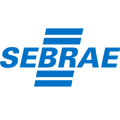
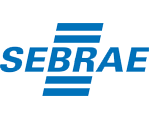
Corrigindo imagens, alinhamentos e adicionando texto para call for papers.

Changed region(s): [[0.0, 0.175, 1.0, 0.8], [0.8, 0.425, 0.825, 0.45]]

diff --git a/public/stylesheets/application.min.css b/public/stylesheets/application.min.css
@@ -15,3 +15,32 @@
  *
  * Designed and built with all the love in the world @twitter by @mdo and @fat.
  */.clearfix{*zoom:1}.clearfix:before,.clearfix:after{display:table;line-height:0;content:""}.clearfix:after{clear:both}.hide-text{font:0/0 a;color:transparent;text-shadow:none;background-color:transparent;border:0}.input-block-level{display:block;width:100%;min-height:30px;-webkit-box-sizing:border-box;-moz-box-sizing:border-box;box-sizing:border-box}@-ms-viewport{width:device-width}.hidden{display:none;visibility:hidden}.visible-phone{display:none!important}.visible-tablet{display:none!important}.hidden-desktop{display:none!important}.visible-desktop{display:inherit!important}@media (min-width:768px) and (max-width:979px){.hidden-desktop{display:inherit!important}.visible-desktop{display:none!important}.visible-tablet{display:inherit!important}.hidden-tablet{display:none!important}}@media (max-width:767px){.hidden-desktop{display:inherit!important}.visible-desktop{display:none!important}.visible-phone{display:inherit!important}.hidden-phone{display:none!important}}.visible-print{display:none!important}@media print{.visible-print{display:inherit!important}.hidden-print{display:none!important}}@media (min-width:1200px){.row{margin-left:-30px;*zoom:1}.row:before,.row:after{display:table;line-height:0;content:""}.row:after{clear:both}[class*=span]{float:left;min-height:1px;margin-left:30px}.container,.navbar-static-top .container,.navbar-fixed-top .container,.navbar-fixed-bottom .container{width:1170px}.span12{width:1170px}.span11{width:1070px}.span10{width:970px}.span9{width:870px}.span8{width:770px}.span7{width:670px}.span6{width:570px}.span5{width:470px}.span4{width:370px}.span3{width:270px}.span2{width:170px}.span1{width:70px}.offset12{margin-left:1230px}.offset11{margin-left:1130px}.offset10{margin-left:1030px}.offset9{margin-left:930px}.offset8{margin-left:830px}.offset7{margin-left:730px}.offset6{margin-left:630px}.offset5{margin-left:530px}.offset4{margin-left:430px}.offset3{margin-left:330px}.offset2{margin-left:230px}.offset1{margin-left:130px}.row-fluid{width:100%;*zoom:1}.row-fluid:before,.row-fluid:after{display:table;line-height:0;content:""}.row-fluid:after{clear:both}.row-fluid [class*=span]{display:block;float:left;width:100%;min-height:30px;margin-left:2.564102564102564%;*margin-left:2.5109110747408616%;-webkit-box-sizing:border-box;-moz-box-sizing:border-box;box-sizing:border-box}.row-fluid [class*=span]:first-child{margin-left:0}.row-fluid .controls-row [class*=span]+[class*=span]{margin-left:2.564102564102564%}.row-fluid .span12{width:100%;*width:99.94680851063829%}.row-fluid .span11{width:91.45299145299145%;*width:91.39979996362975%}.row-fluid .span10{width:82.90598290598291%;*width:82.8527914166212%}.row-fluid .span9{width:74.35897435897436%;*width:74.30578286961266%}.row-fluid .span8{width:65.81196581196582%;*width:65.75877432260411%}.row-fluid .span7{width:57.26495726495726%;*width:57.21176577559556%}.row-fluid .span6{width:48.717948717948715%;*width:48.664757228587014%}.row-fluid .span5{width:40.17094017094017%;*width:40.11774868157847%}.row-fluid .span4{width:31.623931623931625%;*width:31.570740134569924%}.row-fluid .span3{width:23.076923076923077%;*width:23.023731587561375%}.row-fluid .span2{width:14.52991452991453%;*width:14.476723040552828%}.row-fluid .span1{width:5.982905982905983%;*width:5.929714493544281%}.row-fluid .offset12{margin-left:105.12820512820512%;*margin-left:105.02182214948171%}.row-fluid .offset12:first-child{margin-left:102.56410256410257%;*margin-left:102.45771958537915%}.row-fluid .offset11{margin-left:96.58119658119658%;*margin-left:96.47481360247316%}.row-fluid .offset11:first-child{margin-left:94.01709401709402%;*margin-left:93.91071103837061%}.row-fluid .offset10{margin-left:88.03418803418803%;*margin-left:87.92780505546462%}.row-fluid .offset10:first-child{margin-left:85.47008547008548%;*margin-left:85.36370249136206%}.row-fluid .offset9{margin-left:79.48717948717949%;*margin-left:79.38079650845607%}.row-fluid .offset9:first-child{margin-left:76.92307692307693%;*margin-left:76.81669394435352%}.row-fluid .offset8{margin-left:70.94017094017094%;*margin-left:70.83378796144753%}.row-fluid .offset8:first-child{margin-left:68.37606837606839%;*margin-left:68.26968539734497%}.row-fluid .offset7{margin-left:62.393162393162385%;*margin-left:62.28677941443899%}.row-fluid .offset7:first-child{margin-left:59.82905982905982%;*margin-left:59.72267685033642%}.row-fluid .offset6{margin-left:53.84615384615384%;*margin-left:53.739770867430444%}.row-fluid .offset6:first-child{margin-left:51.28205128205128%;*margin-left:51.175668303327875%}.row-fluid .offset5{margin-left:45.299145299145295%;*margin-left:45.1927623204219%}.row-fluid .offset5:first-child{margin-left:42.73504273504273%;*margin-left:42.62865975631933%}.row-fluid .offset4{margin-left:36.75213675213675%;*margin-left:36.645753773413354%}.row-fluid .offset4:first-child{margin-left:34.18803418803419%;*margin-left:34.081651209310785%}.row-fluid .offset3{margin-left:28.205128205128204%;*margin-left:28.0987452264048%}.row-fluid .offset3:first-child{margin-left:25.641025641025642%;*margin-left:25.53464266230224%}.row-fluid .offset2{margin-left:19.65811965811966%;*margin-left:19.551736679396257%}.row-fluid .offset2:first-child{margin-left:17.094017094017094%;*margin-left:16.98763411529369%}.row-fluid .offset1{margin-left:11.11111111111111%;*margin-left:11.004728132387708%}.row-fluid .offset1:first-child{margin-left:8.547008547008547%;*margin-left:8.440625568285142%}input,textarea,.uneditable-input{margin-left:0}.controls-row [class*=span]+[class*=span]{margin-left:30px}input.span12,textarea.span12,.uneditable-input.span12{width:1156px}input.span11,textarea.span11,.uneditable-input.span11{width:1056px}input.span10,textarea.span10,.uneditable-input.span10{width:956px}input.span9,textarea.span9,.uneditable-input.span9{width:856px}input.span8,textarea.span8,.uneditable-input.span8{width:756px}input.span7,textarea.span7,.uneditable-input.span7{width:656px}input.span6,textarea.span6,.uneditable-input.span6{width:556px}input.span5,textarea.span5,.uneditable-input.span5{width:456px}input.span4,textarea.span4,.uneditable-input.span4{width:356px}input.span3,textarea.span3,.uneditable-input.span3{width:256px}input.span2,textarea.span2,.uneditable-input.span2{width:156px}input.span1,textarea.span1,.uneditable-input.span1{width:56px}.thumbnails{margin-left:-30px}.thumbnails>li{margin-left:30px}.row-fluid .thumbnails{margin-left:0}}@media (min-width:768px) and (max-width:979px){.row{margin-left:-20px;*zoom:1}.row:before,.row:after{display:table;line-height:0;content:""}.row:after{clear:both}[class*=span]{float:left;min-height:1px;margin-left:20px}.container,.navbar-static-top .container,.navbar-fixed-top .container,.navbar-fixed-bottom .container{width:724px}.span12{width:724px}.span11{width:662px}.span10{width:600px}.span9{width:538px}.span8{width:476px}.span7{width:414px}.span6{width:352px}.span5{width:290px}.span4{width:228px}.span3{width:166px}.span2{width:104px}.span1{width:42px}.offset12{margin-left:764px}.offset11{margin-left:702px}.offset10{margin-left:640px}.offset9{margin-left:578px}.offset8{margin-left:516px}.offset7{margin-left:454px}.offset6{margin-left:392px}.offset5{margin-left:330px}.offset4{margin-left:268px}.offset3{margin-left:206px}.offset2{margin-left:144px}.offset1{margin-left:82px}.row-fluid{width:100%;*zoom:1}.row-fluid:before,.row-fluid:after{display:table;line-height:0;content:""}.row-fluid:after{clear:both}.row-fluid [class*=span]{display:block;float:left;width:100%;min-height:30px;margin-left:2.7624309392265194%;*margin-left:2.709239449864817%;-webkit-box-sizing:border-box;-moz-box-sizing:border-box;box-sizing:border-box}.row-fluid [class*=span]:first-child{margin-left:0}.row-fluid .controls-row [class*=span]+[class*=span]{margin-left:2.7624309392265194%}.row-fluid .span12{width:100%;*width:99.94680851063829%}.row-fluid .span11{width:91.43646408839778%;*width:91.38327259903608%}.row-fluid .span10{width:82.87292817679558%;*width:82.81973668743387%}.row-fluid .span9{width:74.30939226519337%;*width:74.25620077583166%}.row-fluid .span8{width:65.74585635359117%;*width:65.69266486422946%}.row-fluid .span7{width:57.18232044198895%;*width:57.12912895262725%}.row-fluid .span6{width:48.61878453038674%;*width:48.56559304102504%}.row-fluid .span5{width:40.05524861878453%;*width:40.00205712942283%}.row-fluid .span4{width:31.491712707182323%;*width:31.43852121782062%}.row-fluid .span3{width:22.92817679558011%;*width:22.87498530621841%}.row-fluid .span2{width:14.3646408839779%;*width:14.311449394616199%}.row-fluid .span1{width:5.801104972375691%;*width:5.747913483013988%}.row-fluid .offset12{margin-left:105.52486187845304%;*margin-left:105.41847889972962%}.row-fluid .offset12:first-child{margin-left:102.76243093922652%;*margin-left:102.6560479605031%}.row-fluid .offset11{margin-left:96.96132596685082%;*margin-left:96.8549429881274%}.row-fluid .offset11:first-child{margin-left:94.1988950276243%;*margin-left:94.09251204890089%}.row-fluid .offset10{margin-left:88.39779005524862%;*margin-left:88.2914070765252%}.row-fluid .offset10:first-child{margin-left:85.6353591160221%;*margin-left:85.52897613729868%}.row-fluid .offset9{margin-left:79.8342541436464%;*margin-left:79.72787116492299%}.row-fluid .offset9:first-child{margin-left:77.07182320441989%;*margin-left:76.96544022569647%}.row-fluid .offset8{margin-left:71.2707182320442%;*margin-left:71.16433525332079%}.row-fluid .offset8:first-child{margin-left:68.50828729281768%;*margin-left:68.40190431409427%}.row-fluid .offset7{margin-left:62.70718232044199%;*margin-left:62.600799341718584%}.row-fluid .offset7:first-child{margin-left:59.94475138121547%;*margin-left:59.838368402492065%}.row-fluid .offset6{margin-left:54.14364640883978%;*margin-left:54.037263430116376%}.row-fluid .offset6:first-child{margin-left:51.38121546961326%;*margin-left:51.27483249088986%}.row-fluid .offset5{margin-left:45.58011049723757%;*margin-left:45.47372751851417%}.row-fluid .offset5:first-child{margin-left:42.81767955801105%;*margin-left:42.71129657928765%}.row-fluid .offset4{margin-left:37.01657458563536%;*margin-left:36.91019160691196%}.row-fluid .offset4:first-child{margin-left:34.25414364640884%;*margin-left:34.14776066768544%}.row-fluid .offset3{margin-left:28.45303867403315%;*margin-left:28.346655695309746%}.row-fluid .offset3:first-child{margin-left:25.69060773480663%;*margin-left:25.584224756083227%}.row-fluid .offset2{margin-left:19.88950276243094%;*margin-left:19.783119783707537%}.row-fluid .offset2:first-child{margin-left:17.12707182320442%;*margin-left:17.02068884448102%}.row-fluid .offset1{margin-left:11.32596685082873%;*margin-left:11.219583872105325%}.row-fluid .offset1:first-child{margin-left:8.56353591160221%;*margin-left:8.457152932878806%}input,textarea,.uneditable-input{margin-left:0}.controls-row [class*=span]+[class*=span]{margin-left:20px}input.span12,textarea.span12,.uneditable-input.span12{width:710px}input.span11,textarea.span11,.uneditable-input.span11{width:648px}input.span10,textarea.span10,.uneditable-input.span10{width:586px}input.span9,textarea.span9,.uneditable-input.span9{width:524px}input.span8,textarea.span8,.uneditable-input.span8{width:462px}input.span7,textarea.span7,.uneditable-input.span7{width:400px}input.span6,textarea.span6,.uneditable-input.span6{width:338px}input.span5,textarea.span5,.uneditable-input.span5{width:276px}input.span4,textarea.span4,.uneditable-input.span4{width:214px}input.span3,textarea.span3,.uneditable-input.span3{width:152px}input.span2,textarea.span2,.uneditable-input.span2{width:90px}input.span1,textarea.span1,.uneditable-input.span1{width:28px}}@media (max-width:767px){body{padding-right:20px;padding-left:20px}.navbar-fixed-top,.navbar-fixed-bottom,.navbar-static-top{margin-right:-20px;margin-left:-20px}.container-fluid{padding:0}.dl-horizontal dt{float:none;width:auto;clear:none;text-align:left}.dl-horizontal dd{margin-left:0}.container{width:auto}.row-fluid{width:100%}.row,.thumbnails{margin-left:0}.thumbnails>li{float:none;margin-left:0}[class*=span],.uneditable-input[class*=span],.row-fluid [class*=span]{display:block;float:none;width:100%;margin-left:0;-webkit-box-sizing:border-box;-moz-box-sizing:border-box;box-sizing:border-box}.span12,.row-fluid .span12{width:100%;-webkit-box-sizing:border-box;-moz-box-sizing:border-box;box-sizing:border-box}.row-fluid [class*=offset]:first-child{margin-left:0}.input-large,.input-xlarge,.input-xxlarge,input[class*=span],select[class*=span],textarea[class*=span],.uneditable-input{display:block;width:100%;min-height:30px;-webkit-box-sizing:border-box;-moz-box-sizing:border-box;box-sizing:border-box}.input-prepend input,.input-append input,.input-prepend input[class*=span],.input-append input[class*=span]{display:inline-block;width:auto}.controls-row [class*=span]+[class*=span]{margin-left:0}.modal{position:fixed;top:20px;right:20px;left:20px;width:auto;margin:0}.modal.fade{top:-100px}.modal.fade.in{top:20px}}@media (max-width:480px){.nav-collapse{-webkit-transform:translate3d(0,0,0)}.page-header h1 small{display:block;line-height:20px}input[type=checkbox],input[type=radio]{border:1px solid #ccc}.form-horizontal .control-label{float:none;width:auto;padding-top:0;text-align:left}.form-horizontal .controls{margin-left:0}.form-horizontal .control-list{padding-top:0}.form-horizontal .form-actions{padding-right:10px;padding-left:10px}.media .pull-left,.media .pull-right{display:block;float:none;margin-bottom:10px}.media-object{margin-right:0;margin-left:0}.modal{top:10px;right:10px;left:10px}.modal-header .close{padding:10px;margin:-10px}.carousel-caption{position:static}}@media (max-width:979px){body{padding-top:0}.navbar-fixed-top,.navbar-fixed-bottom{position:static}.navbar-fixed-top{margin-bottom:20px}.navbar-fixed-bottom{margin-top:20px}.navbar-fixed-top .navbar-inner,.navbar-fixed-bottom .navbar-inner{padding:5px}.navbar .container{width:auto;padding:0}.navbar .brand{padding-right:10px;padding-left:10px;margin:0 0 0 -5px}.nav-collapse{clear:both}.nav-collapse .nav{float:none;margin:0 0 10px}.nav-collapse .nav>li{float:none}.nav-collapse .nav>li>a{margin-bottom:2px}.nav-collapse .nav>.divider-vertical{display:none}.nav-collapse .nav .nav-header{color:#777;text-shadow:none}.nav-collapse .nav>li>a,.nav-collapse .dropdown-menu a{padding:9px 15px;font-weight:700;color:#777;-webkit-border-radius:3px;-moz-border-radius:3px;border-radius:3px}.nav-collapse .btn{padding:4px 10px;font-weight:400;-webkit-border-radius:4px;-moz-border-radius:4px;border-radius:4px}.nav-collapse .dropdown-menu li+li a{margin-bottom:2px}.nav-collapse .nav>li>a:hover,.nav-collapse .nav>li>a:focus,.nav-collapse .dropdown-menu a:hover,.nav-collapse .dropdown-menu a:focus{background-color:#f2f2f2}.navbar-inverse .nav-collapse .nav>li>a,.navbar-inverse .nav-collapse .dropdown-menu a{color:#999}.navbar-inverse .nav-collapse .nav>li>a:hover,.navbar-inverse .nav-collapse .nav>li>a:focus,.navbar-inverse .nav-collapse .dropdown-menu a:hover,.navbar-inverse .nav-collapse .dropdown-menu a:focus{background-color:#111}.nav-collapse.in .btn-group{padding:0;margin-top:5px}.nav-collapse .dropdown-menu{position:static;top:auto;left:auto;display:none;float:none;max-width:none;padding:0;margin:0 15px;background-color:transparent;border:0;-webkit-border-radius:0;-moz-border-radius:0;border-radius:0;-webkit-box-shadow:none;-moz-box-shadow:none;box-shadow:none}.nav-collapse .open>.dropdown-menu{display:block}.nav-collapse .dropdown-menu:before,.nav-collapse .dropdown-menu:after{display:none}.nav-collapse .dropdown-menu .divider{display:none}.nav-collapse .nav>li>.dropdown-menu:before,.nav-collapse .nav>li>.dropdown-menu:after{display:none}.nav-collapse .navbar-form,.nav-collapse .navbar-search{float:none;padding:10px 15px;margin:10px 0;border-top:1px solid #f2f2f2;border-bottom:1px solid #f2f2f2;-webkit-box-shadow:inset 0 1px 0 rgba(255,255,255,.1),0 1px 0 rgba(255,255,255,.1);-moz-box-shadow:inset 0 1px 0 rgba(255,255,255,.1),0 1px 0 rgba(255,255,255,.1);box-shadow:inset 0 1px 0 rgba(255,255,255,.1),0 1px 0 rgba(255,255,255,.1)}.navbar-inverse .nav-collapse .navbar-form,.navbar-inverse .nav-collapse .navbar-search{border-top-color:#111;border-bottom-color:#111}.navbar .nav-collapse .nav.pull-right{float:none;margin-left:0}.nav-collapse,.nav-collapse.collapse{height:0;overflow:hidden}.navbar .btn-navbar{display:block}.navbar-static .navbar-inner{padding-right:10px;padding-left:10px}}@media (min-width:980px){.nav-collapse.collapse{height:auto!important;overflow:visible!important}}@font-face{font-family:FuturaBold;font-style:normal;font-weight:400;src:url(../fonts/futura_bold_bt-webfont.eot);src:url(../fonts/futura_bold_bt-webfont.eot?#iefix) format("embedded-opentype"),url(../fonts/futura_bold_bt-webfont.woff) format("woff"),url(../fonts/futura_bold_bt-webfont.ttf) format("truetype"),url(../fonts/futura_bold_bt-webfont.svg#avalonbold) format("svg")}@font-face{font-family:icomoon;src:url(../fonts/icomoon.eot);src:url(../fonts/icomoon.eot?#iefix) format('embedded-opentype'),url(../fonts/icomoon.woff) format('woff'),url(../fonts/icomoon.ttf) format('truetype'),url(../fonts/icomoon.svg#icomoon) format('svg');font-weight:400;font-style:normal}@font-face{font-family:social-rupy;src:url(../fonts/social-rupy.eot);src:url(../fonts/social-rupy.eot?#iefix) format('embedded-opentype'),url(../fonts/social-rupy.woff) format('woff'),url(../fonts/social-rupy.ttf) format('truetype'),url(../fonts/social-rupy.svg#social-rupy) format('svg');font-weight:400;font-style:normal}@font-face{font-family:talk;src:url(../fonts/talk.eot);src:url(../fonts/talk.eot?#iefix) format('embedded-opentype'),url(../fonts/talk.ttf) format('truetype'),url(../fonts/talk.woff) format('woff'),url(../fonts/talk.svg#talk) format('svg');font-weight:400;font-style:normal}body{color:#FFF;font-family:"Helvetica Neue",Helvetica,Arial,sans-serif;font-size:1em;line-height:1.5em}a{color:#35AEE7;-webkit-transition:all 1s ease;-moz-transition:all 1s ease;-ms-transition:all 1s ease;-o-transition:all 1s ease;transition:all 1s ease}dt{margin-bottom:4px}dd{margin-bottom:12px}table{border-collapse:collapse;border-spacing:0;width:100%}.link-fanpage{color:#F1F45F}.link-fanpage:hover{color:#CCCC28;text-decoration:none}.btn-last-change{display:block;font-size:1.4em;padding:1em;background:red;color:#fff}.btn-last-change:hover{-webkit-transition:all 1s ease;-moz-transition:all 1s ease;-ms-transition:all 1s ease;-o-transition:all 1s ease;transition:all 1s ease}.is-shadow{text-shadow:0 1px 1px #222}#first-content{padding-bottom:60px;background:#35AEE7;background:-moz-linear-gradient(top,#35AEE7 0,#6A4195 100%);background:-webkit-gradient(linear,left top,left bottom,color-stop(0%,#35AEE7),color-stop(100%,#6A4195));background:-webkit-linear-gradient(top,#35AEE7 0,#6A4195 100%);background:-o-linear-gradient(top,#35AEE7 0,#6A4195 100%);background:-ms-linear-gradient(top,#35AEE7 0,#6A4195 100%);background:linear-gradient(to bottom,#35AEE7 0,#6A4195 100%);filter:progid:DXImageTransform.Microsoft.gradient(startColorstr='#35AEE7', endColorstr='#6A4195', GradientType=0)}.slogan{font-family:FuturaBold;padding-left:20px;font-size:90px;text-align:center}.slogan span{display:block;line-height:80px}.slogan span.motto{color:#363636;margin:28px 0}.slogan p.location{font-size:24px;position:relative;z-index:1}.text-center{text-align:center}.jumbotron{padding-top:50px}.jumbotron h1.logo{font:0/0;color:transparent;text-shadow:none;margin:0;padding:0;background:url(../images/logo-rupy.png) no-repeat center;background-size:contain}.jumbotron h1.logo,.slogan{height:255px}.link-papers{color:#fbfbfb;font-weight:500;text-decoration:underline}.link-papers:hover{color:#ccc}.photo{border:5px solid #fbfbfb}.link-photo{opacity:1;-webkit-transition:all 1s ease;-moz-transition:all 1s ease;-ms-transition:all 1s ease;-o-transition:all 1s ease;transition:all 1s ease}.link-photo:hover{opacity:.4;-webkit-transition:all 1s ease;-moz-transition:all 1s ease;-ms-transition:all 1s ease;-o-transition:all 1s ease;transition:all 1s ease}.name-center{text-align:center;width:75px}.link-team{color:#fff}.link-team:hover{color:#fff;text-decoration:none}#speaker-area .speakers-confirmed{margin:0 0 20px}#speaker-area .row-fluid{margin-bottom:24px}#speaker-area .speakers-item{padding:16px}#speaker-area .speakers-item:after{content:"";clear:both;display:table}#speaker-area .speaker-photo,#speaker-area .speaker-photo .photo{display:block;height:170px;width:170px}#speaker-area .speaker-photo{float:left;margin:0 30px 0 0}.speakers-name{margin:0;margin-top:36px}.link-speaker{color:red;background:#fbfbfb;padding:5px}.speakers-works-for{color:#7f8c8d;background:#fbfbfb;padding:7px}.speakers-room{color:#d35400;background:#fbfbfb;padding:7px;margin-left:-4px}.speakers-bio{color:#fbfbfb}.icon-github,.icon-twitter,.icon-earth{font-family:icomoon;speak:none;font-style:normal;font-weight:400;font-variant:normal;text-transform:none;line-height:1;background:#fbfbfb;font-size:2em;width:40px;height:35px;border-radius:50%;float:left;text-align:center;margin-right:5px;padding-top:3px;-webkit-font-smoothing:antialiased}.icon-github:before{content:"\e005"}.icon-twitter:before{content:"\e000"}.icon-earth:before{content:"\e002"}.talks-content{float:left;background:#fbfbfb;width:84%;margin-top:20px;padding-left:30px;padding-right:30px;height:112px}[class^=talk-],[class*=" talk-"]{font-family:talk;speak:none;font-style:normal;font-weight:400;font-variant:normal;text-transform:none;line-height:1;color:#35AEE7;font-size:2.8em;width:70px;float:left;margin-right:5px;-webkit-font-smoothing:antialiased;-moz-osx-font-smoothing:grayscale}.talk-camera:before{content:"\e601"}.talk-image:before{content:"\e602"}#schedule-of-speakers table{background:#fff;color:#333}#schedule-of-speakers th{font-size:22px}#schedule-of-speakers td,#schedule-of-speakers th{border-bottom:1px solid #e7e7e7;padding:20px 30px;position:relative;text-align:center}#schedule-of-speakers tbody tr:nth-child(2n+1){background:#f6f6f6}#schedule-of-speakers tbody tr:hover{background:#fffde1}#schedule-of-speakers .speaker-photo{float:left;height:40px;margin-right:20px;position:relative;width:40px}#schedule-of-speakers .schedule-room1{background-color:#f1c40f}#schedule-of-speakers tbody .schedule-room1:hover{background-color:#f1d35d}#schedule-of-speakers .schedule-room2{background-color:#3498db}#schedule-of-speakers tbody .schedule-room2:hover{background-color:#68b2e3}#schedule-of-speakers .schedule-room3{background-color:#1abc9c}#schedule-of-speakers tbody .schedule-room3:hover{background-color:#54d6bc}#schedule-of-speakers .schedule-time{font-size:14px;width:40px}.event-photo{display:block;margin:0 auto;width:100%}#about-event{background-size:contain}#info-box .container,#location .container{background:#fff;border-bottom:10px solid #6A4195;color:#666}#location .container{padding:0}#info-box .container .span12,#location .about-event-infos{padding:20px;box-sizing:border-box;-webkit-box-sizing:border-box;-moz-box-sizing:border-box}#info-box .container h3,#newsletter .container h3,#location .container h3{color:#000}.icon-rupy-facebook,.icon-rupy-twitter{font-family:social-rupy;speak:none;font-style:normal;font-weight:400;font-variant:normal;text-transform:none;line-height:1;-webkit-font-smoothing:antialiased;font-size:3em;float:left;text-align:center;margin-right:5px;padding-top:3px;width:50px}.icon-rupy-facebook:before{content:"\e001"}.icon-rupy-twitter:before{content:"\e000"}#newsletter form{margin:0}#newsletter #input-newsletter-email,#newsletter .btn-success{border-radius:0;-webkit-border-radius:0;-moz-border-radius:0}#newsletter #input-newsletter-email{background:#e8e8e7;height:44px;width:100%;box-sizing:border-box;-webkit-box-sizing:border-box;-moz-box-sizing:border-box}.price-27-07{color:silver;text-decoration:line-through}.schedule .table{background-color:#FFF;color:#666}.schedule .table th{font-weight:700}.schedule .table th,.schedule .table td{vertical-align:middle}.schedule .table .well{text-align:center}.schedule .speaker-theme small{display:block;margin-top:4px}.schedule .table .talk-block{height:115px}.link-talk:hover{text-decoration:none}.stopped-sales{color:#e67e22}#location-map{background:#fff;border:0;height:540px;width:100%;box-sizing:border-box;-webkit-box-sizing:border-box;-moz-box-sizing:border-box}#location-map img{max-width:initial}.eventicket-iframe{height:340px;width:100%}.eventicket-link{display:none}.ticket-hot-news{color:#ECF0F1;text-align:center}#other-events .main-title{margin-bottom:30px}#other-events .event-title{color:#f0f0f0;font-size:20px}#other-events .event-photo{height:160px;margin:0 0 8px}#second-content{color:#b0b0b0;padding-top:30px}#execution .container{border-bottom:1px solid #ccc;padding-bottom:60px}.support-list .support-item{float:left;margin:0 12px 12px 0}.support-list .support-item a{display:block}.events-link{background:transparent no-repeat center;display:block;height:160px;text-indent:-99999px}.events-link.startup-vale{background-color:#7bbc0c;background-image:url(../images/logo-startup-vale.png)}.events-link.agile{background-color:#003;background-image:url(../images/logo-agile-vale.png)}.events-link img{visibility:hidden}#execution .event-owner{display:block;margin-top:24px;max-width:200px}.footer-copyright{margin:20px 0;text-align:center}.box-registration{height:300px}.rupy-modal{border:8px solid #35AEE7!important;border-radius:0}.modal-footer{background-color:#fff!important;text-align:left}.title-modal{color:red}.text-modal{color:#363636}.modal-body .speaker-photo{margin:0 20px 0 0}.modal-body .photo{width:160px}.box-social-modal{width:135px}@media (min-width:1200px){.slogan{font-size:100px;padding-left:25px;text-align:center;margin-top:50px}.slogan span{line-height:92px}.slogan p.location{font-size:38px;padding-top:12px}.jumbotron h1.logo{background-image:url(../images/logo-rupy.png)}.jumbotron h1.logo,.slogan{height:350px}#about-event .content{padding-top:40px}}@media (max-width:979px){.jumbotron .span4,.jumbotron .span8{width:100%;float:none}.slogan{font-size:34px;border:0;padding:0;text-align:center;height:auto}.slogan span{display:inline;line-height:34px}.slogan span.motto{display:block}.slogan p.location{margin-top:30px;font-size:24px}.jumbotron h1.logo{height:200px}#newsletter .row-fluid .span4,#other-events .row-fluid .span8{margin:0}#other-events .events-link{margin-bottom:20px}}@media (max-width:767px){body{padding:0}.container{padding:20px}.slogan{font-size:28px;text-align:center}.slogan span{line-height:28px}.slogan p.location{margin-top:25px;font-size:22px}#other-events .events-link.agile{margin-top:80px}#second-content.jumbotron{padding-top:0}#execution .event-owner{max-width:300px}}@media (max-width:613px){#eventicket{height:538px}}@media (max-width:490px){body{min-height:480px}.jumbotron{padding-top:45px}#first-content .jumbotron:first-child{padding-top:0}.slogan{font-size:36px;text-align:center}.slogan span{line-height:normal}.slogan p.location{font-size:17px}#speaker-area .speakers-item{display:block;float:none;margin:12px 0 0}#speaker-area .speakers-item{display:block;float:none;margin:12px 0 0}#schedule-of-speakers td,#schedule-of-speakers th{padding:15px}#location-map{height:200px}.eventicket-iframe{display:none}.eventicket-link{display:block}}@media (max-width:320px){#schedule-of-speakers .schedule-time{width:10px}}
+
+.support-list .support-item {
+    float: left;
+    margin: 0 12px 12px 0;
+    padding: 20px;
+    height: 60px;
+    overflow: hidden;
+}
+
+.support-item img {
+    vertical-align: middle;
+    overflow: hidden;
+    margin-top: -30%;
+}
+
+.support-item.designa img {
+    zoom: 0.65;
+    margin: -15% 20px 0 15px;
+}
+
+.support-item.potilivre img,
+.support-item.apybr img,
+.support-item.sebrae img {
+    margin-top: -20%;
+}
+
+.support-item.potilivre img {
+    zoom: 0.8;
+}

diff --git a/index.html b/index.html
@@ -47,23 +47,22 @@
       </div>
 
     <div id="about-event" class="jumbotron">
-        <img src="public/images/rupy-valley.png" class="event-photo">
-        <div class="container">
-          <div class="row">
-            <div class="span3"></div>
-            <div class="span6 content is-shadow">
-              <h2 class="text-center">Aprenda, compartilhe e evolua!</h2>
-              <p class="lead text-center">
-                RuPy é um evento internacional que reúne comunidades
-                de diferentes linguagens de programação, como: Ruby,
-                Python, JavaScript e tecnologias relacionadas.
-              </p>
-              <a href="http://www.eventick.com.br/rupy-natal" class="btn btn-large btn-last-change">Inscreva-se!</a>
-            </div>
-            <div class="span3"></div>
+      <img src="public/images/rupy-valley.png" class="event-photo">
+      <div class="container">
+        <div class="row">
+          <div class="offset3 span6 content is-shadow">
+            <h2 class="text-center">Aprenda, compartilhe e evolua!</h2>
+            <p class="lead text-center">
+              RuPy é um evento internacional que reúne comunidades
+              de diferentes linguagens de programação, como: Ruby,
+              Python, JavaScript e tecnologias relacionadas.
+            </p>
+            <a href="http://www.eventick.com.br/rupy-natal" class="btn btn-large btn-last-change">Inscreva-se!</a>
           </div>
+          <div class="span3"></div>
         </div>
       </div>
+    </div>
 
     <div id="info-box" class="jumbotron">
         <div class="container">
@@ -170,6 +169,20 @@
                   </div>
               </div>
               <!-- Fim palestrantes -->
+              <div class="container">
+                <div class="row">
+                  <hr>
+                  <div class="offset3 span6 content is-shadow">
+                    <h2 class="text-center">Seja um Palestrante do RuPy Natal!</h2>
+                    <p class="lead text-center">
+                      Nossa Chamada de Trabalhos está aberta apenas até o final de Agosto.
+                      Então se você fez parte de algum projeto legal, escreveu alguma biblioteca, tem um caso de sucesso que mereça ser compartilhado, venha e conte para nós!
+                    </p>
+                    <a target="_blank" href="http://speakerfight.com/events/rupy-natal/" class="btn btn-large btn-last-change">Submeter Palestra!</a>
+                  </div>
+                  <div class="span3"></div>
+                </div>
+              </div>
             </div>
           </div>
         </div>
@@ -195,78 +208,83 @@
                   </p>
                 </div>
 
-                <div class="span7">
+                <div class="span9">
                   <h3>Diamond:</h3>
                   <h3>Gold:</h3>
                   <ul class="support-list unstyled clearfix">
                     <li class="support-item">
                       <a href="http://codeminer42.com.br" target="_blank" title="A Codeminer42 estará presente na RuPy Natal 2014">
-                        <img src="public/images/codeminer.png" height="150" width="150" alt="Logo Codeminer42">
+                        <img src="public/images/codeminer.png" alt="Logo Codeminer42">
                       </a>
                     </li>
                     <li class="support-item">
                       <a href="http://evolux.net.br" target="_blank" title="A Evolux estará presente na RuPy Natal 2014">
-                        <img src="public/images/evolux.png" height="150" width="150" alt="Logo Evolux">
-                      </a>
-                    </li>
-
-                    <li class="support-item">
-                      <a href="http://thoughtworks.com/pt" target="_blank" title="A Thoughtworks estará presente na RuPy Natal 2014">
-                        <img src="public/images/thoughtworks.png" height="150" width="150" alt="Logo Thoughtworks">
-                      </a>
-                    </li>
-                    <li class="support-item">
-                      <a href="http://tecsoft.info" target="_blank" title="A TecSoft estará presente na RuPy Natal 2014">
-                        <img src="public/images/tecsoft.png" height="150" width="150" alt="Logo HE:Clouds">
+                        <img src="public/images/evolux.png" alt="Logo Evolux">
                       </a>
                     </li>
                     <li class="support-item">
                       <a href="http://heclouds.com.br" target="_blank" title="A HE:Clouds estará presente na RuPy Natal 2014">
-                        <img src="public/images/heclouds.png" height="150" width="150" alt="Logo TecSoft">
+                        <img src="public/images/heclouds.png" alt="HE:Clouds">
+                      </a>
+                    </li>
+                    <li class="support-item">
+                      <a href="https://www.liferay.com/pt/" target="_blank" title="A Liferay estará presente na RuPy Natal 2014">
+                        <img src="public/images/liferay.png" alt="Logo TecSoft">
+                      </a>
+                    </li>
+                    <li class="support-item">
+                      <a href="http://thoughtworks.com/pt" target="_blank" title="A Thoughtworks estará presente na RuPy Natal 2014">
+                        <img src="public/images/thoughtworks.png" alt="Logo Thoughtworks">
+                      </a>
+                    </li>
+                    <li class="support-item">
+                      <a href="http://tecsoft.info" target="_blank" title="A TecSoft estará presente na RuPy Natal 2014">
+                        <img src="public/images/tecsoft.png" alt="Logo HE:Clouds">
+                      </a>
+                    </li>
+                    <li class="support-item sebrae">
+                      <a href="http://rn.sebrae.com.br" target="_blank" title="SEBRAE está apoiando a RuPy Natal 2014!">
+                        <img src="public/images/sebrae.png" alt="Logo SEBRAE">
                       </a>
                     </li>
                   </ul>
                   <h3>Bronze:</h3>
                   <h3>Apoio:</h3>
-                 <ul class="support-list unstyled clearfix">
-                    <li class="support-item">
-                      <a href="http://designa.com.br/" target="_blank" title="Designa está apoiando a RuPy Natal 2014!">
-                        <img src="public/images/logo-designa.png" height="120" width="120" alt="Logo Designa">
-                      </a>
-                    </li>
+                  <ul class="support-list unstyled clearfix">
                     <li class="support-item">
                       <a href="http://novatec.com.br" target="_blank" title="A Novatec Editora estará presente na RuPy Natal 2014">
-                        <img src="public/images/logo-novatec.png" height="120" width="120" alt="Logo Novatec Editora">
+                        <img src="public/images/logo-novatec.png" alt="Logo Novatec Editora">
                       </a>
                     </li>
                     <li class="support-item">
                       <a href="http://eventick.com.br" target="_blank" title="Eventick está apoiando a RuPy Natal 2014!">
-                        <img src="public/images/logo-eventick.png" height="120" width="120" alt="Logo Eventick">
+                        <img src="public/images/logo-eventick.png" alt="Logo Eventick">
                       </a>
                     </li>
-                    <li class="support-item">
+                    <li class="support-item apybr">
                       <a href="http://pythonbrasil.org.br" target="_blank" title="Python Brasil está apoiando a RuPy Natal 2014!">
-                        <img src="public/images/apybr.png" height="120" width="120" alt="Logo Python Brasil">
-                      </a>
-                    </li>
-                    <li class="support-item">
-                      <a href="http://rn.sebrae.com.br" target="_blank" title="SEBRAE está apoiando a RuPy Natal 2014!">
-                        <img src="public/images/sebrae.png" height="120" width="120" alt="Logo SEBRAE">
+                        <img src="public/images/apybr.png" alt="Logo Python Brasil">
                       </a>
                     </li>
                     <li class="support-item">
                       <a href="http://plataformatec.com.br/" target="_blank" title="Plataformatec está apoiando a RuPy Natal 2014!">
-                        <img src="public/images/plataformatec.png" height="120" width="120" alt="Logo Plataformatec">
+                        <img src="public/images/plataformatec.png" alt="Logo Plataformatec">
+                      </a>
+                    </li>
+                    <li class="support-item designa">
+                      <a href="http://designa.com.br/" target="_blank" title="Designa está apoiando a RuPy Natal 2014!">
+                        <img src="public/images/logo-designa.png" alt="Logo Designa">
                       </a>
                     </li>
                   </ul>
-                </div>
-
-                <div class="span2">
-                 <h3>Realização</h3>
-                  <a href="http://potilivre.org" class="event-owner">
-                    <img src="public/images/logo-potilivre.png" class="event-photo">
-                  </a>
+                  <h3>Realização:</h3>
+                  <ul class="support-list unstyled clearfix">
+                    <li class="support-item potilivre">
+                      <a href="http://potilivre.org" target="_blank" title="Potilivre está apoiando a RuPy Natal 2014!">
+                        <img src="public/images/logo-potilivre.png" alt="Logo Designa">
+                      </a>
+                    </li>
+                  </ul>
                 </div>
               </div>
             </div>
